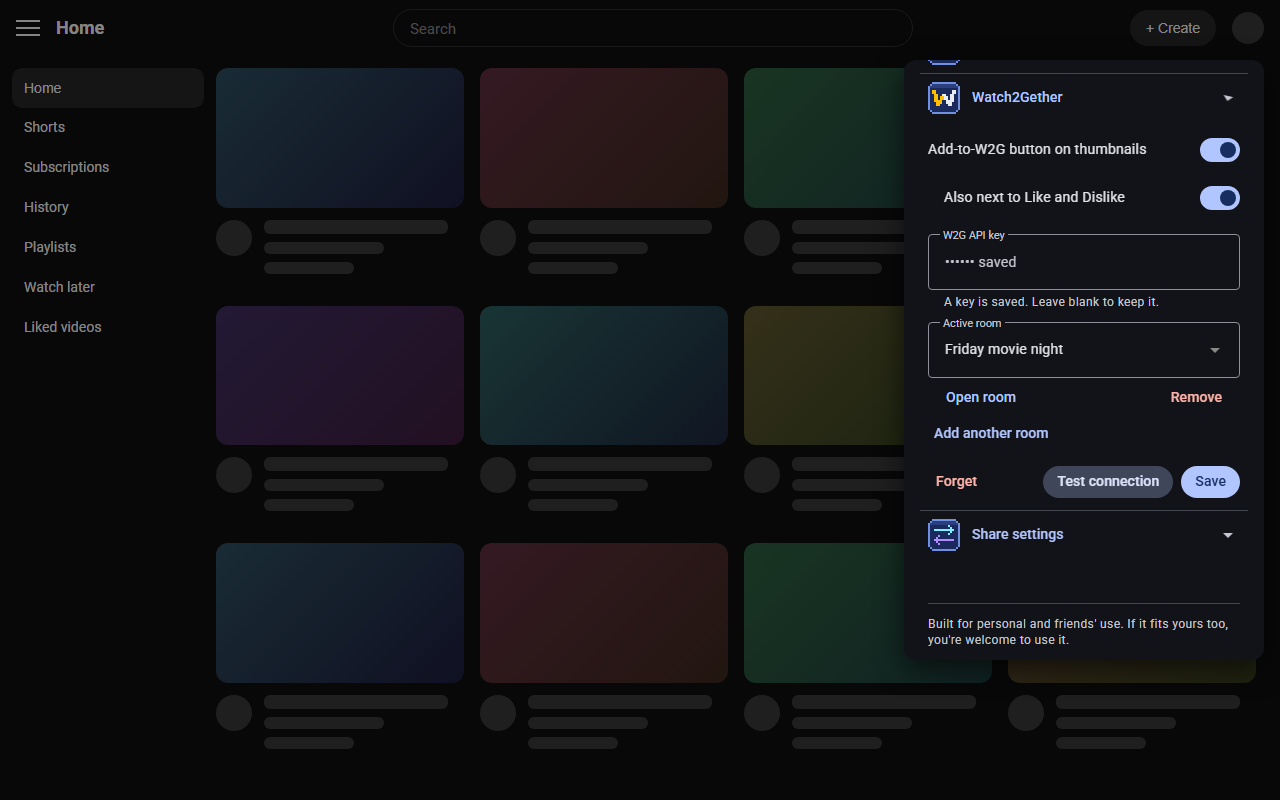
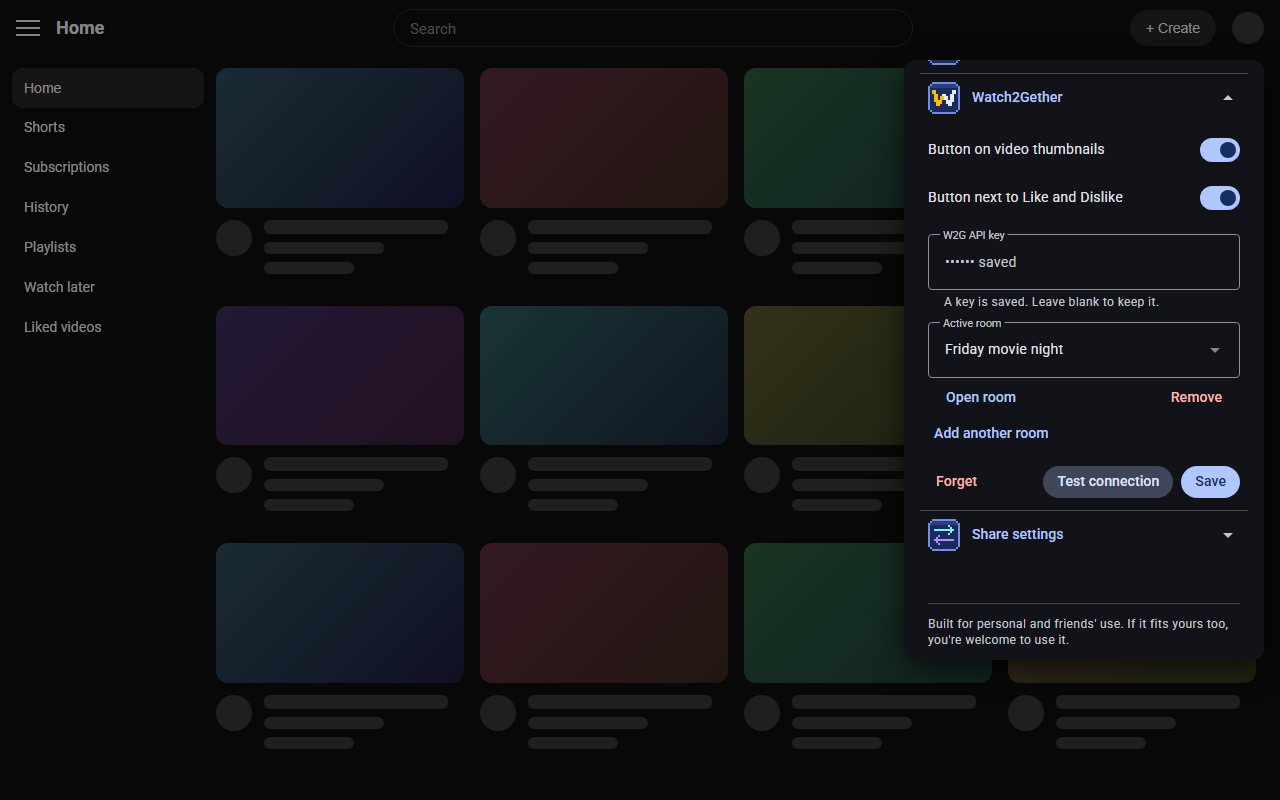
W2G: separate switches for the thumbnail button and the Like/Dislike button
The single w2g switch controlled both buttons but was labelled and indented as if the video-page button were
a child of the thumbnail one. Now:
- w2gThumbs and w2gWatchPage are independent; the old w2g (+ w2gWatchPage) setting is migrated on read
- each content-script path is gated by its own switch
- access to w2g.tv is requested when the first goes on and removed only when both are off
- the service worker switches both off if access is revoked, and no longer switches anything on
- settings export/import excludes both W2G switches
- popup, README, listing text, privacy wording and AGENTS.md updated

diff --git a/popup/popup.js b/popup/popup.js
@@ -3,6 +3,8 @@ const $ = (id) => document.getElementById(id);
 // Access to Watch2Gether is optional: Chrome only asks for it when the W2G
 // toggle is switched on, and it is handed back when the toggle is switched off.
 const W2G_HOSTS = ['https://api.w2g.tv/*', 'https://w2g.tv/*'];
+// The two W2G buttons each have a switch; access to w2g.tv is asked for when the first goes on and handed back once both are off
+const W2G_SWITCHES = ['w2gThumbs', 'w2gWatchPage'];
 // Requested together with the hosts above, but never removed: youtube.com is already covered by the extension's
 // required content-script access, and chrome.permissions.remove() throws "You cannot remove required permissions"
 // for anything that is.
@@ -38,6 +40,9 @@ function renderSettings(settings) {
   }
   for (const el of document.querySelectorAll('[data-show-when]')) el.hidden = !settings[el.dataset.showWhen];
   for (const el of document.querySelectorAll('[data-hide-when]')) el.hidden = !!settings[el.dataset.hideWhen];
+  const anyOn = (keys) => keys.split(' ').some((k) => settings[k]);
+  for (const el of document.querySelectorAll('[data-show-when-any]')) el.hidden = !anyOn(el.dataset.showWhenAny);
+  for (const el of document.querySelectorAll('[data-hide-when-any]')) el.hidden = anyOn(el.dataset.hideWhenAny);
   for (const el of document.querySelectorAll('[data-value]')) el.value = settings[el.dataset.value];
   for (const el of document.querySelectorAll('[data-list]')) el.value = (settings[el.dataset.list] || []).join('\n');
 }
@@ -45,7 +50,7 @@ function renderSettings(settings) {
 for (const box of document.querySelectorAll('input[data-setting]')) {
   box.addEventListener('change', async () => {
     const key = box.dataset.setting;
-    if (key === 'w2g') {
+    if (W2G_SWITCHES.includes(key)) {
       if (box.checked) {
         // Must be the first await in this handler to count as a user gesture.
         const granted = await chrome.permissions.request({ origins: [...W2G_HOSTS, OEMBED] });
@@ -54,8 +59,12 @@ for (const box of document.querySelectorAll('input[data-setting]')) {
           return say('Chrome did not grant access to w2g.tv, so the button stays off.', 'error');
         }
       } else {
-        // A failed removal must never stop the switch from turning off, so it is not allowed to throw out of here
-        try { await chrome.permissions.remove({ origins: W2G_HOSTS }); } catch (err) { console.warn('Could not remove W2G access:', err.message); }
+        // Access stays while the other W2G button is still on. A failed removal must never stop the switch from turning
+        // off, so it is not allowed to throw out of here.
+        const stored = await EFY.loadRaw();
+        if (!W2G_SWITCHES.some((k) => k !== key && stored[k])) {
+          try { await chrome.permissions.remove({ origins: W2G_HOSTS }); } catch (err) { console.warn('Could not remove W2G access:', err.message); }
+        }
       }
     }
     renderSettings(await EFY.save({ [key]: box.checked }));
@@ -192,9 +201,10 @@ $('forget').addEventListener('click', async () => {
 
 // ---------- Share settings ----------
 
-// The W2G toggle is left out both ways: it depends on a permission granted per browser.
+// The two W2G switches are left out both ways: they depend on a permission granted per browser.
 $('export').addEventListener('click', async () => {
-  const { w2g, ...shareable } = await EFY.loadRaw(); // eslint-disable-line no-unused-vars
+  const shareable = await EFY.loadRaw();
+  for (const key of W2G_SWITCHES) delete shareable[key];
   $('share').value = JSON.stringify(shareable, null, 2);
   try {
     await navigator.clipboard.writeText($('share').value);
@@ -208,7 +218,8 @@ $('export').addEventListener('click', async () => {
 $('import').addEventListener('click', async () => {
   let parsed;
   try { parsed = JSON.parse($('share').value); } catch { return say('That is not a valid settings code.', 'error'); }
-  const { w2g, ...patch } = EFY.sanitize(parsed); // eslint-disable-line no-unused-vars
+  const patch = EFY.sanitize(parsed);
+  for (const key of W2G_SWITCHES) delete patch[key];
   const count = Object.keys(patch).length;
   if (!count) return say('No settings found in that code.', 'error');
   renderSettings(await EFY.save(patch));

diff --git a/lib/settings.js b/lib/settings.js
@@ -25,17 +25,26 @@
     hideShortsEverywhere: false,
 
     // Watch2Gether
-    w2g: false,                 // "add to Watch2Gether" button on video thumbnails
-    w2gWatchPage: true,         // ...and on the video page's player
+    w2gThumbs: false,           // "add to Watch2Gether" button on video thumbnails
+    w2gWatchPage: false,        // the W2G button next to Like and Dislike on the video page
   };
 
   // What every feature flag becomes while paused
   const OFF = {
     hideMostRelevant: false, tabs: false, allSubsInRow: false, hideWatched: false,
-    hideByText: false, hideShort: false, hideAsk: false, hideShortsEverywhere: false, w2g: false,
+    hideByText: false, hideShort: false, hideAsk: false, hideShortsEverywhere: false,
+    w2gThumbs: false, w2gWatchPage: false,
   };
 
-  const withDefaults = (stored) => ({ ...DEFAULTS, ...stored });
+  // Before the two W2G buttons had a switch each there was one, `w2g`, with `w2gWatchPage` (on by default) for the video
+  // page. Carry that over once; the old key is not written back.
+  function migrate(stored) {
+    if (!stored || !('w2g' in stored) || 'w2gThumbs' in stored) return stored;
+    const { w2g, ...rest } = stored;
+    return { ...rest, w2gThumbs: !!w2g, w2gWatchPage: !!w2g && stored.w2gWatchPage !== false };
+  }
+
+  const withDefaults = (stored) => ({ ...DEFAULTS, ...migrate(stored) });
   const effective = (s) => (s.paused ? { ...s, ...OFF } : s);
 
   // The stored settings, exactly as saved (the popup edits these)

diff --git a/popup/popup.html b/popup/popup.html
@@ -93,19 +93,16 @@
     <details class="group" data-group="w2g">
       <summary><img class="pixel" src="pixel/w2g.svg" alt="" width="32" height="32"><h2 id="h-w2g">Watch2Gether</h2></summary>
       <label class="item">
-        <span class="text">
-          Add-to-W2G button on thumbnails
-          <span class="support" data-hide-when="w2g">Turning this on asks Chrome for access to w2g.tv.</span>
-        </span>
-        <input type="checkbox" role="switch" data-setting="w2g">
+        <span class="text">Button on video thumbnails</span>
+        <input type="checkbox" role="switch" data-setting="w2gThumbs">
       </label>
+      <label class="item">
+        <span class="text">Button next to Like and Dislike</span>
+        <input type="checkbox" role="switch" data-setting="w2gWatchPage">
+      </label>
+      <p class="support hint" data-hide-when-any="w2gThumbs w2gWatchPage">Turning either on asks Chrome for access to w2g.tv.</p>
 
-      <div data-show-when="w2g" hidden>
-        <label class="item nested">
-          <span class="text">Also next to Like and Dislike</span>
-          <input type="checkbox" role="switch" data-setting="w2gWatchPage">
-        </label>
-
+      <div data-show-when-any="w2gThumbs w2gWatchPage" hidden>
         <div class="field-wrap">
           <label class="field" id="apiKey-field">
             <input id="apiKey" type="password" autocomplete="off" spellcheck="false" placeholder=" ">

diff --git a/content/w2g/button.js b/content/w2g/button.js
@@ -315,12 +315,13 @@
   const removeAll = () => [...injected.keys()].forEach(remove);
   const removeKind = (kind) => [...injected].forEach(([target, info]) => { if (info.kind === kind) remove(target); });
 
-  let settings = { w2g: false, w2gWatchPage: true };
+  let settings = { w2gThumbs: false, w2gWatchPage: false };
 
   const scan = () => {
     // YouTube recycles and detaches thumbnails; forget the ones that are gone.
     for (const target of injected.keys()) if (!target.isConnected) injected.delete(target);
-    document.querySelectorAll(adapter.targetSelector).forEach((target) => inject(target));
+    if (settings.w2gThumbs) document.querySelectorAll(adapter.targetSelector).forEach((target) => inject(target));
+    else removeKind('thumb');
     // The action row on the video page, when that sub-feature is on
     if (settings.w2gWatchPage && adapter.isWatchPage?.(location)) {
       const bar = adapter.getWatchTarget?.();
@@ -376,8 +377,8 @@
 
   const applySettings = (s) => {
     settings = s;
-    setEnabled(s.w2g);
-    if (enabled) schedule(); // sub-feature changes (watch page button) need a rescan
+    setEnabled(!!(s.w2gThumbs || s.w2gWatchPage));
+    if (enabled) schedule(); // switching one of the two buttons needs a rescan
   };
   EFY.load().then(applySettings);
   EFY.onChange(applySettings);

diff --git a/background/service-worker.js b/background/service-worker.js
@@ -86,14 +86,13 @@ chrome.runtime.onMessage.addListener((msg, _sender, sendResponse) => {
   return true; // async response
 });
 
-// Keep the W2G toggle in step with the optional host permission. The popup can
-// close while Chrome shows the permission prompt, and permissions can also be
-// revoked from chrome://extensions, so the permission is the source of truth.
-async function setW2gSetting(on) {
+// If access to w2g.tv is taken away (for example from chrome://extensions) neither W2G button can work, so switch both
+// off rather than leaving them on and failing.
+async function switchW2gOff() {
   const key = 'settings';
   const current = (await chrome.storage.sync.get(key))[key] || {};
-  await chrome.storage.sync.set({ [key]: { ...current, w2g: on } });
+  const { w2g, ...rest } = current; // eslint-disable-line no-unused-vars
+  await chrome.storage.sync.set({ [key]: { ...rest, w2gThumbs: false, w2gWatchPage: false } });
 }
 const isW2g = (perms) => perms.origins?.some((o) => o.includes('api.w2g.tv'));
-chrome.permissions.onAdded.addListener((perms) => { if (isW2g(perms)) setW2gSetting(true); });
-chrome.permissions.onRemoved.addListener((perms) => { if (isW2g(perms)) setW2gSetting(false); });
+chrome.permissions.onRemoved.addListener((perms) => { if (isW2g(perms)) switchW2gOff(); });

diff --git a/popup/popup.css b/popup/popup.css
@@ -266,6 +266,7 @@ button.text.danger { color: var(--md-sys-color-error); }
 .detail .field { margin-top: 12px; }
 .detail .field:first-child { margin-top: 8px; }
 
+.support.hint { margin: 0 8px 4px; }
 #add-room-toggle { margin: 4px 0 0 4px; }
 .support.problem { margin: 12px 8px 0; color: var(--md-sys-color-error); }
 .room-actions { display: flex; align-items: center; justify-content: space-between; margin: 4px 8px 0; }

diff --git a/AGENTS.md b/AGENTS.md
@@ -63,11 +63,11 @@ After a code change, reload the extension card and refresh YouTube.
 
 - Toggles and options live in `chrome.storage.sync` under key `settings` (`lib/settings.js`, defaults in
   `EFY.DEFAULTS`). The original cleaner features (shelves, tabs) default **on**; everything added later
-  (filters, hide Shorts everywhere, `w2g`) defaults **off** so updates never change existing behaviour.
+  (filters, hide Ask, hide Shorts everywhere, the two W2G switches) defaults **off** so updates never change existing behaviour.
 - `EFY.load()` returns the *effective* settings (every feature off while `paused`); `EFY.loadRaw()` returns what
   is stored and is what the popup edits. Content scripts must use `load()`/`onChange()`.
 - `EFY.sanitize()` validates anything imported (known keys, types, clamped numbers, capped lists). Settings
-  export/import deliberately excludes `w2g` (it depends on a per-browser permission) and never touches the
+  export/import deliberately excludes the two W2G switches (they depend on a per-browser permission) and never touches the
   key or rooms. sync items are limited to 8KB, so keyword/channel lists are capped at 100 entries.
 - W2G rooms are `rooms: [{ name, streamkey }]` plus the active `streamkey`, all in `chrome.storage.local`. The popup keeps the
   add-room form behind an "Add another room" button (it opens by itself only when there is no room yet). The service worker
@@ -80,10 +80,12 @@ After a code change, reload the extension card and refresh YouTube.
   permission, and content-script `matches` count: `https://www.youtube.com/oembed*` falls under `https://www.youtube.com/*`, so
   the popup only removes the two w2g.tv hosts (and swallows a failed removal so the toggle can still turn off).
 - `storage` is the only install-time permission. The W2G hosts (`api.w2g.tv`, `w2g.tv`,
-  YouTube `oembed`) are **`optional_host_permissions`**: the popup requests them when the W2G toggle
-  is switched on and removes them when it is switched off. The service worker mirrors
-  `permissions.onAdded/onRemoved` into the `w2g` toggle, because Chrome can close the popup during
-  the permission prompt and permissions can be revoked from `chrome://extensions`.
+  YouTube `oembed`) are **`optional_host_permissions`**. There are two independent W2G switches, `w2gThumbs` (hover button on
+  thumbnails) and `w2gWatchPage` (button next to Like and Dislike); they were one switch `w2g` before, and `migrate()` in
+  `lib/settings.js` converts a stored `w2g` (`w2g:true` means both buttons on unless `w2gWatchPage` was false). The popup
+  requests access when either switch goes on and removes it only when BOTH are off. If access is revoked (for example from
+  `chrome://extensions`) the service worker switches both off via `permissions.onRemoved`. (It no longer switches anything
+  on from `onAdded`: it cannot know which button the user meant.) Each content script path is gated by its own switch.
 - Menu icons: `scripts/pixel-icons.mjs` (run by `npm run assets`) draws 16x16 pixel-art SVGs into `popup/pixel/` (youtube, w2g,
   share, pause) on the same navy tile as the extension icon; the popup shows them at 32x32. Edit the script, not the SVGs.
 - The popup groups (YouTube, Watch2Gether, Share settings) are collapsible `<details class="group" data-group="...">` with an M3
@@ -94,7 +96,7 @@ After a code change, reload the extension card and refresh YouTube.
   after a divider, like Watch2Gether.
 - Adding a feature: add a default to `EFY.DEFAULTS`, a switch in `popup.html` with
   `data-setting`, and gate the behaviour in the content script (see `rysl-f-*` classes in
-  `subs-cleaner.js`/`.css` and `setEnabled()` in `w2g/button.js`). It must undo itself cleanly when
+  `subs-cleaner.js`/`.css` and `setEnabled()` and the per-button gating in `scan()` in `w2g/button.js`). It must undo itself cleanly when
   switched off.
 - Anything new that sends data off the device needs a `PRIVACY.md` update and, if it needs host
   access, should be an optional permission.
@@ -138,7 +140,7 @@ with **Roboto**.
   `aria-label="Ask"` fallback, scoped to `ytd-watch-metadata`.
 - "Hide Shorts everywhere" is CSS-only and steps aside on the Subscriptions page while the tabs are on
   (`html.efy-no-shorts:not(.rysl-f-tabs)`), otherwise the Shorts tab would have nothing to show.
-- **Video-page W button** (`createNativePill()` in `content/w2g/button.js`, toggle `w2gWatchPage`). Real structure of the
+- **Video-page W button** (`createNativePill()` in `content/w2g/button.js`, switch `w2gWatchPage`). Real structure of the
   action row (verified from pasted markup): inside `ytd-menu-renderer` there are TWO containers.
   `#top-level-buttons-computed` holds the Like/Dislike group (`segmented-like-dislike-button-view-model`, plus other
   extensions' bits such as Return YouTube Dislike's rate bar), while Share, Ask, Save... live in the separate

diff --git a/README.md b/README.md
@@ -33,7 +33,7 @@ no promise that every request will be added.
 ## Settings
 
 - **Pause all features** turns everything off at once without losing your settings
-- **Share settings** exports your toggles and filters as a short code and imports one from a friend. The W2G key, rooms and the W2G toggle are never included
+- **Share settings** exports your toggles and filters as a short code and imports one from a friend. The W2G key, rooms and the two W2G switches are never included
 
 ![Illustration of the Videos and Shorts tabs on the Subscriptions page](store-assets/screenshots/01-subscriptions.png)
 
@@ -49,7 +49,7 @@ no promise that every request will be added.
 ## Watch2Gether setup
 
 1. Get an API key from your Watch2Gether account's API page.
-2. Open the extension popup and switch on **Add-to-W2G button**. Chrome asks for access to `w2g.tv`; this is requested only when you turn the feature on and is handed back when you turn it off.
+2. Open the extension popup and switch on **Button on video thumbnails**, **Button next to Like and Dislike**, or both. They are independent. Chrome asks for access to `w2g.tv` when the first one goes on, and it is handed back once both are off.
 3. Paste your API key and your room's streamkey or URL, then **Save**. Add more rooms with **Add another room** and pick the active one from the list. If an add ever fails, the Watch2Gether group in the popup shows why ("Last add failed...").
 
 Your API key and room stay in your browser's local extension storage and are never synced. "Forget saved key and room" in the popup removes them. See [PRIVACY.md](PRIVACY.md).

diff --git a/store-assets/LISTING.md b/store-assets/LISTING.md
@@ -51,7 +51,8 @@ ALL YOUTUBE PAGES
 WATCH2GETHER (off by default)
 • Hover a video thumbnail and click the W button, or use the W2G button next to Like and Dislike on a video page, to add that video to your Watch2Gether room's playlist
 • Save several rooms and switch between them from the popup
-• Needs your own Watch2Gether API key and room. Chrome asks for access to w2g.tv only when you turn this on, and it is handed back when you turn it off
+• Each of the two buttons has its own switch
+• Needs your own Watch2Gether API key and room. Chrome asks for access to w2g.tv only when you turn a button on, and it is handed back when both are off
 
 SETTINGS
 • Pause all features with one switch

diff --git a/PRIVACY.md b/PRIVACY.md
@@ -16,7 +16,7 @@ The optional filters (watched videos, title keywords, channel names, minimum len
 
 ## Watch2Gether feature (off by default)
 
-This feature is off until you turn it on. Turning it on makes Chrome ask for access to `w2g.tv`, `api.w2g.tv` and YouTube's `oembed` page; turning it off hands that access back.
+This feature is off until you turn on one of its two buttons (the thumbnail button or the button next to Like and Dislike). Turning one on makes Chrome ask for access to `w2g.tv`, `api.w2g.tv` and YouTube's `oembed` page; that access is handed back once both buttons are off.
 
 When enabled, the extension handles:
 
